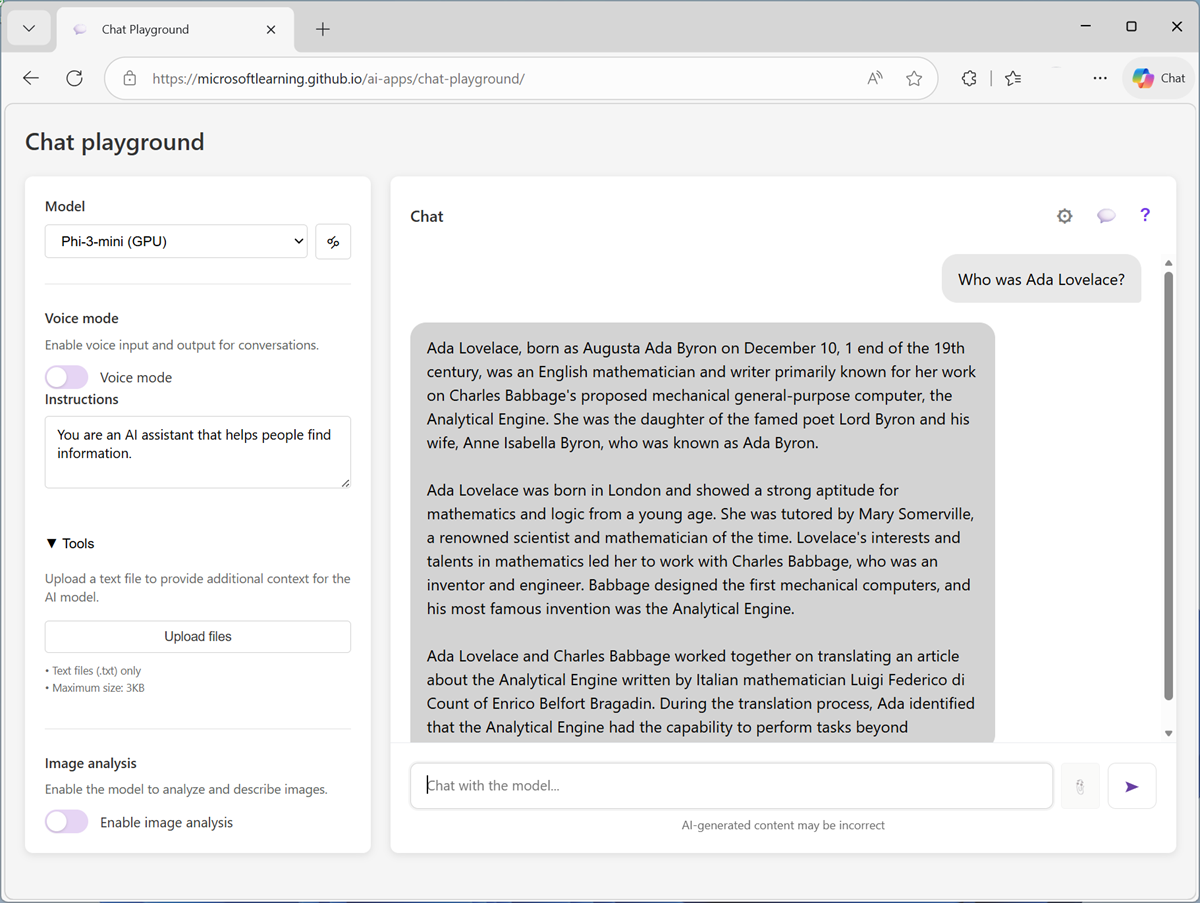
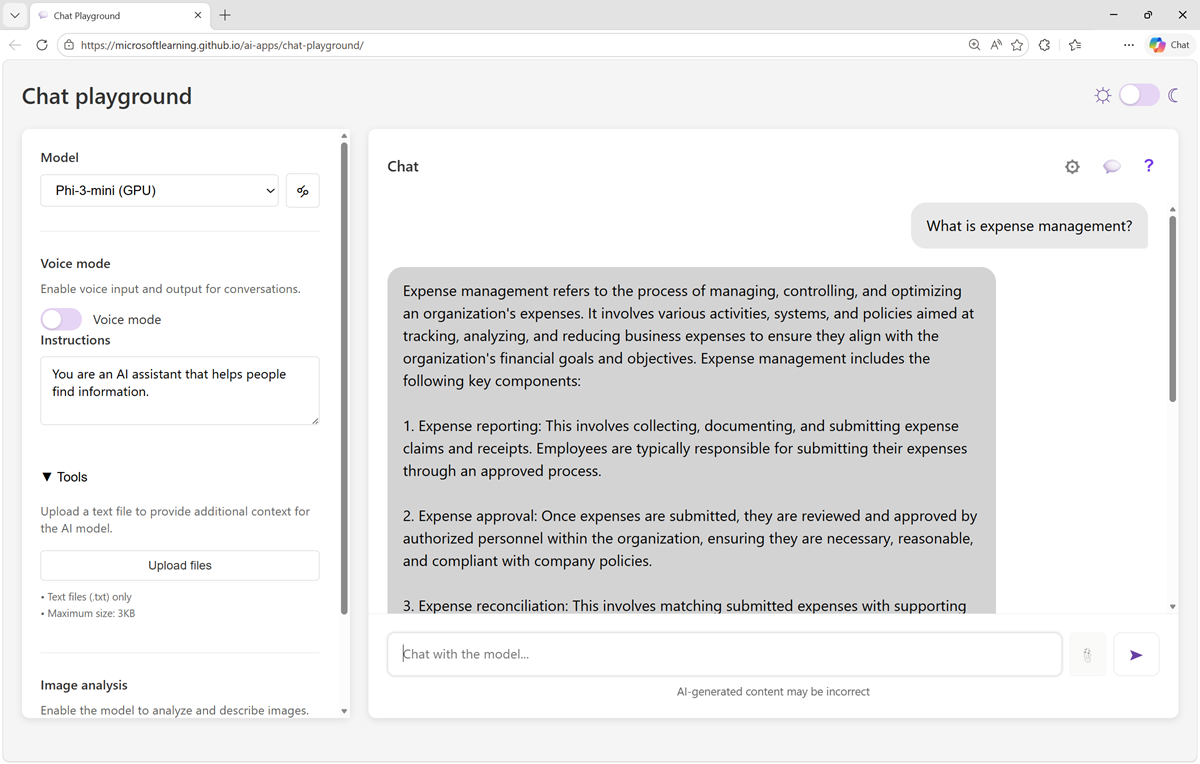
Updated for Phi 2 and None models

diff --git a/Instructions/exercises/02-generative-ai.md b/Instructions/exercises/02-generative-ai.md
@@ -9,16 +9,20 @@ lab:
 
 # Explore generative AI
 
-In this exercise, you'll use a chat playground to interact with a generative AI model. The goal of this exercise is to explore the effect of system prompts, model parameters, and grounding models with data.
+In this exercise, you'll use a chat playground to interact with a generative AI model, and explore how it could be used to support an employee expenses agent that helps employees with expense claim policies and processes.
 
-To complete this lab, you need a modern browser on a computer with sufficient hardware resources to load and run the models used by the AI agent app. On older or low-spec computers, the app may run very slowly or experience errors.
+To complete this exercise, you need a modern browser on a computer with sufficient hardware resources to load and run the models used by the apps. On older or low-spec computers, the apps may run very slowly or experience errors.
 
-**Minimum spec**
+> **Minimum spec**
+>
+> - 64-bit CPU, 4+ physical cores (8 logical threads preferred)
+> - GPU required for the default Phi 3-mini model.
+> - 8+ GB system RAM (16 GB recommended)
+> - Enough storage to cache ~300MB–800MB model assets
+> - Latest Chrome / Edge / Firefox with WASM SIMD enabled/available (WebGPU support is required for the default model; a WASM-based fallback is provided)
+> - Audio hardware (mic and speaker) required for speech functionality
 
-- 64-bit CPU, 4+ physical cores (8 logical threads preferred)
-- 8+ GB system RAM (16 GB recommended)
-- Enough storage to cache ~300MB–800MB model assets
-- Latest Chrome / Edge / Firefox with WASM SIMD enabled/available (WebGPU support is required for the default model; a WASM-based fallback is provided)
+If your computer does not meet these requirements, the CPU-based fallback model may not run successfully. However, the apps support a failsafe "Basic" mode in which no model is used; which you may be able to use.
 
 This exercise should take approximately **15** minutes to complete.
 
@@ -26,61 +30,35 @@ This exercise should take approximately **15** minutes to complete.
 
 Let's start by using a chat interface to submit prompts to a generative AI model. In this exercise, we'll use a small language model that is useful for general chat solutions in low bandwidth scenarios.
 
-> **Note**: If your browser supports WebGPU, the chat playground uses the *Microsoft Phi 3 Mini* model running on your computer's GPU. If not, the SmolLM2 model is used, running on CPU - with reduced response-generation quality. Performance for either model may vary depending on the available memory in your computer and your network bandwidth to download the model. On older or low-spec devices, you may get more reliable behavior by switching to the CPU-based model even if WebGPU is available. After opening the app, use the **?** (*About this app*) icon in the chat area to find out more.
+> **Note**: If your browser supports WebGPU, the chat playground uses the *Microsoft Phi 3 Mini* model running on your computer's GPU. If not, the *Microsoft Phi 2* model is used, running on CPU - with reduced response-generation quality. Performance for either model may vary depending on the available memory in your computer and your network bandwidth to download the model. On older or low-spec devices, you may get more reliable behavior by switching to the *None* model even if CPU or GPU is available. After opening the app, use the **?** (*About this app*) icon in the chat area to find out more.
 
 1. In a web browser, open the **[Chat Playground](https://aka.ms/chat-playground){:target="_blank"}** at `https://aka.ms/chat-playground`.
 1. Wait for the model to download and initialize.
 
-    > **Tip**: The first time you download a model, it may take a few minutes. Subsequent downloads will be faster. If your browser or operating system does not support WebGPU models, the fallback CPU-based model will be selected (which provides slower performance and reduced quality of response generations).
+    > **Tip**: The first time you download a model, it may take a few minutes. Subsequent downloads will be faster. If your browser or operating system does not support WebGPU models, the fallback CPU-based model will be selected (which provides slower performance and reduced quality of response generations). If *that* fails, a basic mode with no model and responses retrieved from Wikipedia is used.
 
-1. When the model is ready, enter a prompt such as `Who was Ada Lovelace?`, and review the response (which may take some time to be generated).
+1. When the model is ready, enter the prompt `What is expense management?`, and review the response (which may take some time to be generated).
 
     ![Screenshot of the chat playground.](./media/gen-ai-01.png)
 
-1. Enter a follow-up prompt, such as `Tell me more about her work with Charles Babbage.` and review the response.
+1. In the pane on the left, in the **Instructions** text area, change the model's instructions to `You are an AI assistant that provides short, concise answers to expense-related questions.`
 
-    > **Note**: Generative AI chat applications often include chat history in the prompt; so the context of the conversation is retained between messages (for example, in the follow-up prompt `Tell me more about her work with Charles Babbage.`, "her" is interpreted as relating to Ada Lovelace).
+    Instructions, sometimes known as a *system prompt*, are used to provide the model with an overall context for its responses. You can use the system prompt to provide guidelines about format, style, and constraints about what the model should and should not include in its responses.
 
 1. At the top of the chat pane, use the **New chat** (&#128172;) button to restart the conversation. This removes all conversation history.
-1. Enter a new prompt, such as `Who was Alan Turing?` and view the response.
-1. Continue the conversation with prompts such as `What is the Turing test?` or `What is a Turing machine?`.
 
-## Experiment with system prompts
+1. Now try the same prompt as before (`What is expense management?`) and review the output.
 
-A system prompt is used to provide the model with an overall context for its responses. You can use the system prompt to provide guidelines about format, style, and constraints about what the model should and should not include in its responses.
+1. Enter another prompt, such as `Tell about per-diem allowances.` and review the response.
+1. Now try a follow-up question: `How are they reimbursed?`
 
-1. At the top of the chat pane, use the **New chat** (&#128172;) button to restart the conversation. Then enter a new prompt, such as `What was ENIAC?` and view the response.
-1. Start a new chat, and then in the pane on the left, in the **Instructions** text area, change the system prompt to `You are an AI assistant that helps people find information about computing history. IMPORTANT: You must answer concisely with a single paragraph.`
-1. Now try the same prompt as before (`What was ENIAC?`) and review the output.
-1. Continue to experiment with different system prompts to try to influence the kinds of response returned by the model.
-
-    > **Note**: Smaller models like SmolLM2 can be less responsive to explicit system prompts than larger ones. You may observe some cases where the system instructions are not followed precisely.
-
-1. When you have finished experimenting, change the system prompt back to `You are an AI assistant that helps people find information.`
-
-## Experiment with model parameters
-
-Model parameters control how the model works, and can be useful for restricting the size of its responses (measured in *tokens*) and controlling how "creative" its responses can be.
-
-1. Use the **New chat** (&#128172;) button to restart the conversation.
-1. In the pane on the left, next to the selected model, select **Parameters** (&#128880;).
-1. Review the parameter settings; then, without changing them, enter a prompt like `Explain Moore's law.` and review the response
-1. Experiment by changing the parameter values and repeating the same prompt. You should see some differences in behavior from the model. For example, changing the **Temperature** modifies the randomness of the model's word selection, changing the "creativity" of the responses (to the point that too high a temperature can cause nonsensical responses).
-
-    > **Note**: Parameters changes can have less effect on smaller models.
-
-1. When you've finished experimenting, reset the parameters to their default values.
+    > **Note**: Generative AI chat applications often include chat history in the prompt; so the context of the conversation is retained between messages (for example, in the follow-up prompt `How are they reimbursed?`, "they" is interpreted as relating to per-diem allowances).
 
 ## Ground responses with data
 
-Generative AI is the foundation for *agentic* solutions; in which AI agents can assist you and act on your behalf. Agents are more than general purpose chat apps. They usually have a particular focus, and use knowledge and tools to perform their duties.
+Generative AI is the foundation for *agentic* solutions; in which AI agents can assist you and act on your behalf. To accomplish this, agents need *tools* that allow them to access specific knowledge and perform tasks.
 
-For example, let's suppose an organization wants to use a generative AI agent to help employees with expense claims.
-
-1. Change the system prompt to `You are a helpful AI assistant who supports employees with expense claims.` and start a new chat conversation.
-1. Enter the prompt `How do I submit a claim?` and view the response.
-
-    The response is likely to be generic. Accurate; but not particularly helpful to the employee. We need to give the agent some knowledge about the company's expense policies and procedures.
+In the case of our expenses assistant, we need to provide a tool with access to the company's expenses policy documentation.
 
 1. Open a new browser tab, and view the **[expenses guide](https://aka.ms/expenses-txt){:target="_blank"}** at `https://aka.ms/expenses-txt`. We'll use this to ground the model, so it has some context for questions about expenses.
 
@@ -89,11 +67,11 @@ For example, let's suppose an organization wants to use a generative AI agent to
 1. Save the **expenses.txt** file on your local computer.
 1. Return to the tab containing the chat playground, and in the pane on the left, expand the **Tools** section if it's not already expanded.
 1. Upload the **expenses.txt** file. The chat is automatically restarted.
-1. Enter the same expenses-related prompt (`How do I submit a claim?`) and view the response.
+1. Enter the prompt `How do I submit a claim?` and view the response.
 
     This time the response should be informed by the information in the expenses data source.
 
-1. Try a few more expenses-related prompts, like `How much can I spend on a taxi?`, `What about a hotel?` or `Can I claim the cost of my dinner?`
+1. Try a few more expenses-related prompts: `How much can I spend on a taxi?`, `What about a hotel?` and `Can I claim the cost of my dinner?`
 
     **Note**: The small amount of data and the limited capabilities of the small models used in this exercise may result in some inaccurate responses; but the principle of *retrieving* contextual information, using it to *augment* the prompt, and *generating* responses based on the data is a common pattern in generative AI solutions known as *Retrieval Augmented Generation* (or *RAG*).
 
@@ -136,12 +114,7 @@ One of the most commonly used application programming interfaces (APIs) used to 
             response = openai_client.responses.create(
                         model=model_name,
                         instructions="""
-                          You are a helpful AI agent that assists employees with expense claim categorization.
-                          Always apply the following category recommendations:
-                          - 'Transportation' for taxis, rideshares, trains, buses, and flights.
-                          - 'Meals' for food and drinks including breakfast, lunch, and dinner.
-                          - 'Accommodation' for hotels, motels, and other lodging.
-                          - 'Miscellaneous' for anything else.
+                        You are an AI assistant that provides short, concise answers to expense-related questions.
                         """,
                         input=input_text
             )
@@ -164,14 +137,12 @@ One of the most commonly used application programming interfaces (APIs) used to 
 1. When prompted, enter a question about expense categories; such as:
 
     ```
-   What category is a taxi ride?
+   What's a purchasing card?
     ```
 
 1. Wait for the response, and then review the answer that was returned.
 
-    You can re-run the code and try alterative prompts, such as `What expense category should I use for a hotel room?`
-
-    > **Note**: The model used in this app is a small language model with limited training data and a small context window. Responses may not be accurate - particularly when using the SmolLM2 model in CPU mode. However, the point of the exercise is to explore the OpenAI SDK syntax to submit prompts and receive responses - regardless of how innacurate they may be!
+    > **Note**: The model used in this app is a small language model with limited training data and a small context window. Responses may not be accurate. However, the point of the exercise is to explore the OpenAI SDK syntax to submit prompts and receive responses.
 
 ## Summary
 
